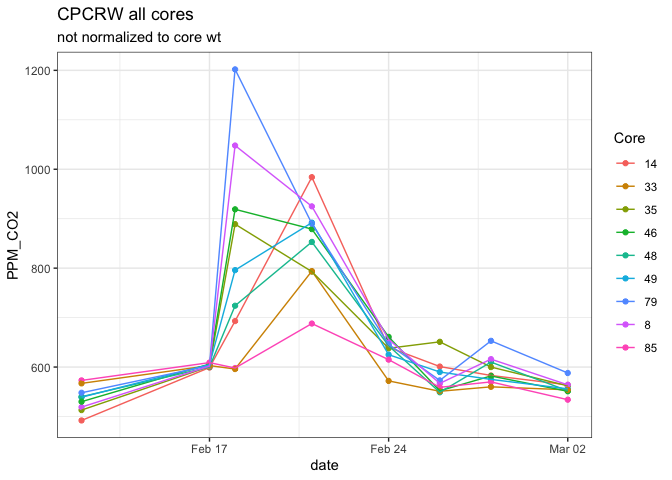
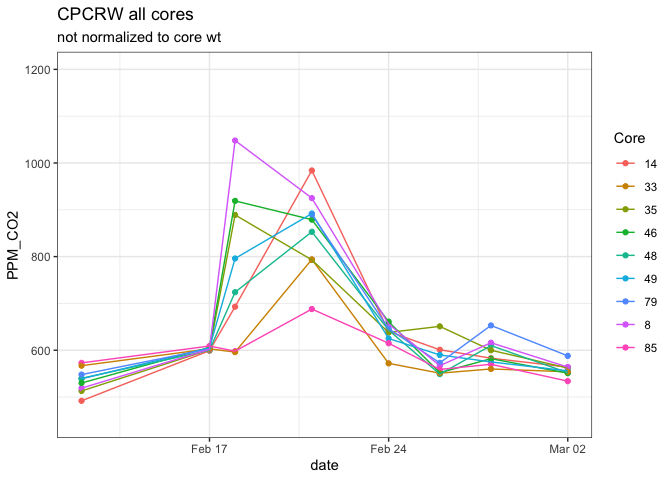
respiration concentration (ppm) graphs

diff --git a/markdown/3e-picarro_markdown.md b/markdown/3e-picarro_markdown.md
@@ -96,61 +96,10 @@ CO2: nmol\_g\_s
 
 ![](images-markdown-picarro/egm_cores_mass-1.png)<!-- -->![](images-markdown-picarro/egm_cores_mass-2.png)<!-- -->
 
------
+# PICARRO CONCENTRATIONS
 
-<details>
+![](images-markdown-picarro/picarro_ppm_cpcrw-1.png)<!-- -->![](images-markdown-picarro/picarro_ppm_cpcrw-2.png)<!-- -->
 
-<summary>Session Info</summary>
+![](images-markdown-picarro/unnamed-chunk-7-1.png)<!-- -->
 
-Date Run: 2020-09-02
-
-    #> R version 4.0.2 (2020-06-22)
-    #> Platform: x86_64-apple-darwin17.0 (64-bit)
-    #> Running under: macOS Catalina 10.15.6
-    #> 
-    #> Matrix products: default
-    #> BLAS:   /Library/Frameworks/R.framework/Versions/4.0/Resources/lib/libRblas.dylib
-    #> LAPACK: /Library/Frameworks/R.framework/Versions/4.0/Resources/lib/libRlapack.dylib
-    #> 
-    #> locale:
-    #> [1] en_US.UTF-8/en_US.UTF-8/en_US.UTF-8/C/en_US.UTF-8/en_US.UTF-8
-    #> 
-    #> attached base packages:
-    #> [1] stats     graphics  grDevices utils     datasets  methods   base     
-    #> 
-    #> other attached packages:
-    #>  [1] picarro.data_0.1.1 forcats_0.5.0      stringr_1.4.0      dplyr_1.0.1       
-    #>  [5] purrr_0.3.4        readr_1.3.1        tidyr_1.1.1        tibble_3.0.3      
-    #>  [9] tidyverse_1.3.0    drake_7.12.4       multcomp_1.4-13    TH.data_1.0-10    
-    #> [13] MASS_7.3-51.6      survival_3.2-3     mvtnorm_1.1-1      agricolae_1.3-3   
-    #> [17] car_3.0-9          carData_3.0-4      nlme_3.1-148       stringi_1.4.6     
-    #> [21] ggExtra_0.9        ggalt_0.4.0        ggplot2_3.3.2      knitr_1.29        
-    #> [25] qwraps2_0.4.2      cowplot_1.0.0      data.table_1.13.0  luzlogr_0.2.0     
-    #> [29] lubridate_1.7.9    readxl_1.3.1       here_0.1          
-    #> 
-    #> loaded via a namespace (and not attached):
-    #>  [1] colorspace_1.4-1   ellipsis_0.3.1     rio_0.5.16         rprojroot_1.3-2   
-    #>  [5] fs_1.5.0           rstudioapi_0.11    farver_2.0.3       fansi_0.4.1       
-    #>  [9] xml2_1.3.2         codetools_0.2-16   splines_4.0.2      extrafont_0.17    
-    #> [13] jsonlite_1.7.0     broom_0.7.0        Rttf2pt1_1.3.8     cluster_2.1.0     
-    #> [17] dbplyr_1.4.4       shiny_1.5.0        httr_1.4.2         compiler_4.0.2    
-    #> [21] backports_1.1.8    assertthat_0.2.1   Matrix_1.2-18      fastmap_1.0.1     
-    #> [25] cli_2.0.2          later_1.1.0.1      htmltools_0.5.0    prettyunits_1.1.1 
-    #> [29] tools_4.0.2        igraph_1.2.5       gtable_0.3.0       glue_1.4.1        
-    #> [33] maps_3.3.0         Rcpp_1.0.5         cellranger_1.1.0   vctrs_0.3.2       
-    #> [37] extrafontdb_1.0    xfun_0.16          rvest_0.3.6        openxlsx_4.1.5    
-    #> [41] mime_0.9           miniUI_0.1.1.1     lifecycle_0.2.0    zoo_1.8-8         
-    #> [45] scales_1.1.1       hms_0.5.3          promises_1.1.1     parallel_4.0.2    
-    #> [49] proj4_1.0-10       sandwich_2.5-1     RColorBrewer_1.1-2 yaml_2.2.1        
-    #> [53] curl_4.3           labelled_2.5.0     highr_0.8          klaR_0.6-15       
-    #> [57] AlgDesign_1.2.0    filelock_1.0.2     zip_2.1.0          storr_1.2.1       
-    #> [61] rlang_0.4.7        pkgconfig_2.0.3    evaluate_0.14      lattice_0.20-41   
-    #> [65] labeling_0.3       tidyselect_1.1.0   magrittr_1.5       R6_2.4.1          
-    #> [69] generics_0.0.2     base64url_1.4      combinat_0.0-8     txtq_0.2.3        
-    #> [73] DBI_1.1.0          pillar_1.4.6       haven_2.3.1        foreign_0.8-80    
-    #> [77] withr_2.2.0        abind_1.4-5        ash_1.0-15         modelr_0.1.8      
-    #> [81] crayon_1.3.4       questionr_0.7.1    KernSmooth_2.23-17 rmarkdown_2.3     
-    #> [85] progress_1.2.2     grid_4.0.2         blob_1.2.1         reprex_0.3.0      
-    #> [89] digest_0.6.25      xtable_1.8-4       httpuv_1.5.4       munsell_0.5.0
-
-</details>
+![](images-markdown-picarro/picarro_ppm_sr-1.png)<!-- -->![](images-markdown-picarro/picarro_ppm_sr-2.png)<!-- -->
